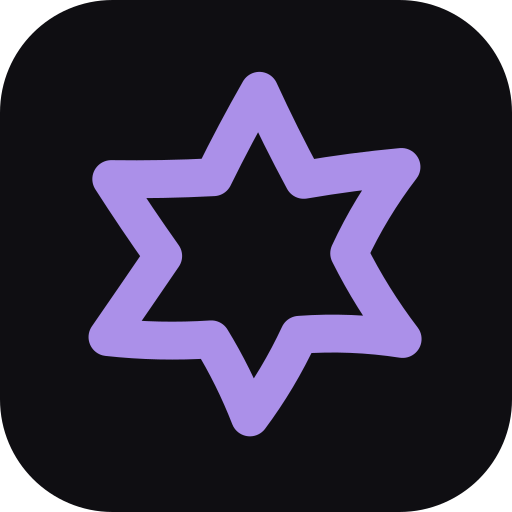
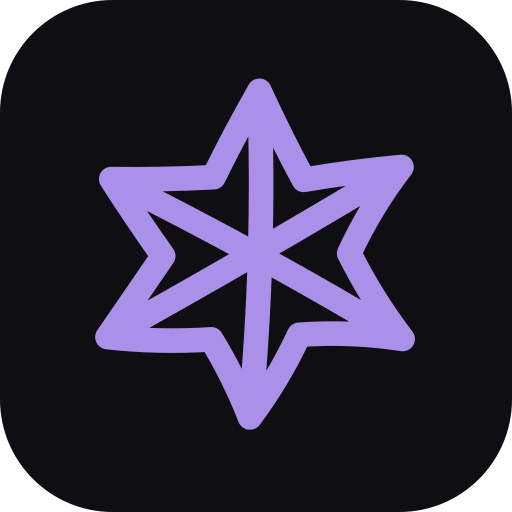
Star: opposite tips connected through the centre so it does not read as a hexagram; thinner strokes

Changed region(s): [[0.1562, 0.125, 0.8438, 0.875], [0.2188, 0.4062, 0.2812, 0.5938]]

diff --git a/lib/star.ts b/lib/star.ts
@@ -1,4 +1,4 @@
-/* Kreslená šestícípá hvězdička: značka FaiN Studia (navigace, favicon, sdílení). Obrys je záměrně lehce třesoucí se, jako tažený rukou. */
+/* Kreslená šestícípá hvězdička: značka FaiN Studia (navigace, favicon, sdílení). Obrys je záměrně lehce třesoucí se, jako tažený rukou; protější cípy jsou spojené přes střed, aby hvězda nevypadala jako hexagram. */
 export const STAR_D =
-  'M50.9 6.4 Q56.4 18.4 62.6 29.9 Q75.4 27.7 88.4 26.5 Q80.2 37.2 74.6 49.3 Q80.6 61.3 88.7 71.9 Q75.1 69.8 61.4 70.8 Q56.0 82.4 48.4 92.6 Q44.2 81.8 38.2 72.0 Q24.4 72.9 10.8 71.4 Q18.2 60.7 25.5 50.0 Q18.4 40.0 11.8 29.7 Q25.3 29.9 38.8 29.2 Q44.5 17.6 50.9 6.4Z';
-export const STAR_STROKE = 9;
+  'M50.9 6.4 Q56.4 18.4 62.6 29.9 Q75.4 27.7 88.4 26.5 Q80.2 37.2 74.6 49.3 Q80.6 61.3 88.7 71.9 Q75.1 69.8 61.4 70.8 Q56.0 82.4 48.4 92.6 Q44.2 81.8 38.2 72.0 Q24.4 72.9 10.8 71.4 Q18.2 60.7 25.5 50.0 Q18.4 40.0 11.8 29.7 Q25.3 29.9 38.8 29.2 Q44.5 17.6 50.9 6.4Z M50.9 6.4 Q52.5 50 48.4 92.6 M88.4 26.5 Q48.5 50.5 10.8 71.4 M88.7 71.9 Q51.5 49.5 11.8 29.7';
+export const STAR_STROKE = 6;

diff --git a/components/ColorStudio.tsx b/components/ColorStudio.tsx
@@ -82,7 +82,7 @@ function normHex(v: string) {
 
 /** Favicon: kreslená hvězdička v aktuální primární barvě (přepíše odkaz na ikonu). */
 function updateFavicon(hex: string) {
-  const svg = `<svg xmlns="http://www.w3.org/2000/svg" viewBox="0 0 100 100"><rect width="100" height="100" rx="22" fill="#0f0e12"/><g transform="translate(13 13) scale(.74)"><path d="${STAR_D}" fill="none" stroke="${hex}" stroke-width="13" stroke-linejoin="round" stroke-linecap="round"/></g></svg>`;
+  const svg = `<svg xmlns="http://www.w3.org/2000/svg" viewBox="0 0 100 100"><rect width="100" height="100" rx="22" fill="#0f0e12"/><g transform="translate(13 13) scale(.74)"><path d="${STAR_D}" fill="none" stroke="${hex}" stroke-width="9" stroke-linejoin="round" stroke-linecap="round"/></g></svg>`;
   let link = document.getElementById('dyn-icon') as HTMLLinkElement | null;
   if (!link) {
     link = document.createElement('link');

diff --git a/app/components.css b/app/components.css
@@ -101,8 +101,8 @@ html.is-loading .seq {
 /* kreslená hvězdička před názvem: značka v primární barvě */
 .logo__star {
   flex: none;
-  width: 0.9em;
-  height: 0.9em;
+  width: 1.05em;
+  height: 1.05em;
   color: var(--primary-text);
   filter: drop-shadow(0 0 10px var(--primary-glow));
 }
